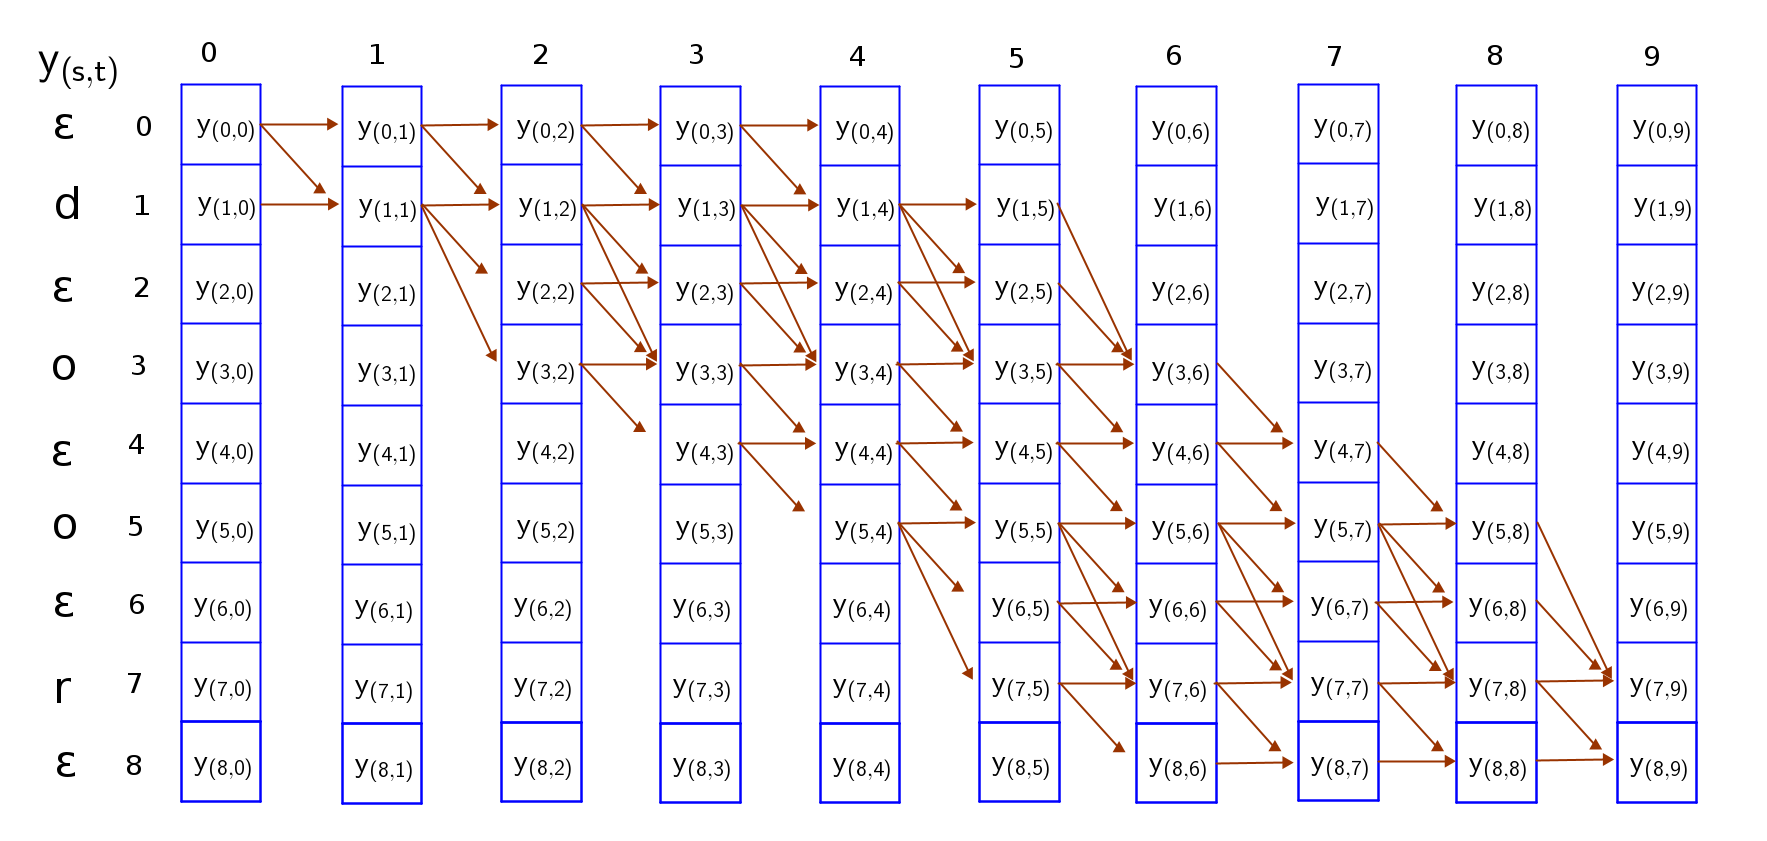
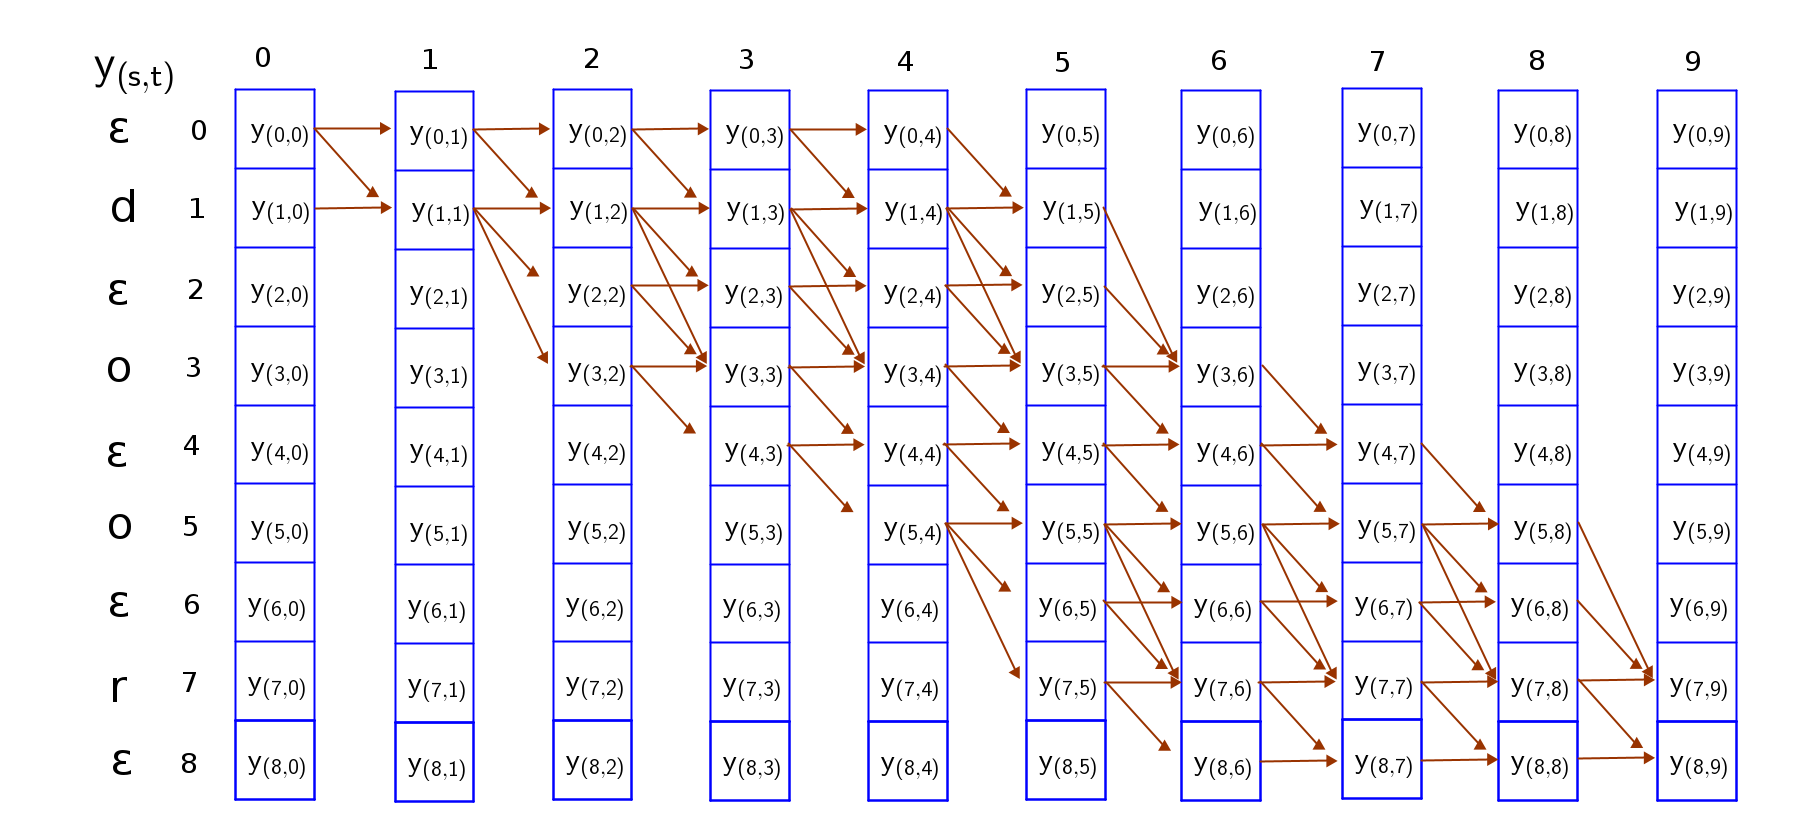
[WIP] Update article diagrams and errors

Changed region(s): [[0.0, 0.0622, 0.9649, 0.9641]]

diff --git a/_posts/2020-07-17-breaking-down-ctc-loss.md b/_posts/2020-07-17-breaking-down-ctc-loss.md
@@ -9,11 +9,12 @@ comments: true
 
 ---
 
-The Connectionist Temporal Classification is a type of scoring function for the output of neural networks where the input sequence may not align with the output sequence at every timestep. It was first introduced in the paper by [Alex Graves et al](https://www.cs.toronto.edu/~graves/icml_2006.pdf) for labelling unsegmented phoneme sequence. It has been successfully applied in other classification tasks such as speech recognition, keyword spotting, handwriting recognition, video description. It has become an ubiquitous loss for tasks requiring dynamic alignment of input to output. In this article, we will breakdown the inner workings of the CTC loss computation using the forward-backward algorithm.
+The Connectionist Temporal Classification is a type of scoring function for the output of neural networks where the input sequence may not align with the output sequence at every timestep. It was first introduced in the paper by [Alex Graves et al](https://www.cs.toronto.edu/~graves/icml_2006.pdf) for labelling unsegmented phoneme sequence. It has been successfully applied in other classification tasks such as speech recognition, keyword spotting, handwriting recognition, video description. These tasks require alignment between the input and output which may not be given. Therefore, it has become an ubiquitous loss for tasks requiring dynamic alignment of input to output. In this article, we will breakdown the inner workings of the CTC loss computation using the forward-backward algorithm.
 
-For an introductory look at CTC, you can read [Sequence Modeling With CTC](https://distill.pub/2017/ctc/) by Awni Hannun.
+We will not be discussing the decoding methods used during inference such as beam search with ctc or prefix search. For an introductory look at CTC, you can read [Sequence Modeling With CTC](https://distill.pub/2017/ctc/) by Awni Hannun.
 
 Here's what we will cover:
+
 1. TOC
 {:toc}
 
@@ -33,54 +34,56 @@ Let's get concrete with what we have been talking about by designing a task and 
 
 ![speech model using ctc ctc](/images/ctc_loss/speech_model.png)
 
-In the model above, we convert the raw audio signal into its spectrum or apply melfiterbanks, which is then passed through a convolution neural network (CNN). CNNs enable us extract features, by looking at a window of the data while performing strided convolutions along the feature dimension of the audio.
+In the model above, we convert the raw audio signal into its spectrum or apply melfiterbanks (this is optional and can be performed by a CNN layer), which is then passed through a convolution neural network (CNN). CNNs enable us extract features, by looking at a window of the data while performing strided convolutions along the feature dimension of the audio.
 
-The features are then passed through a Recurrent Neural Network (RNN) for decoding. At the decoding stage, observe that some outputs are similar to their previous timesteps indicating that predictions overlap. Also, how should we have dealt with silence in the audio?
+The features are then passed through a Recurrent Neural Network (RNN) for decoding. At the decoding stage, if we perform a max decoding at each timestep, we will get tokens of a much longer length than the input, which naturally implies that redundant tokens will be decoded to fill up some of the timesteps. How do we contract the decoded output to represent our predictions? How should we deal with silences in the audio? How should we indicate repetitions of tokens as in "d-oo-r"?
 
-Instead of decoding characters, we can decode phonemes, subwords, or even words depending on the task. Let's consider the instance of character decoding for this article.
+Well, Instead of decoding characters, we can decode phonemes, subwords, or even words depending on the task. Let's consider the instance of character decoding for this article.
 
-There are problems which arise when decoding characters. Some characters repeat in words (e.g. 'o' in 'door') and how does the model determine the correct sequence of character to be 'door' and not 'dor'. We can solve this problem by explicitly introducing a blank token into our vocabulary to cater for this. Don not forget we also have a separator token to cater for spaces between words.
+We can solve these problems by explicitly introducing a blank token into our vocabulary to cater for these dynamics. We further include a separator token to indicate spaces between each word.
 
-For instance, "the door" split into ["t", "h", "e", "d", "o", "o", "r"] tokens will be transformed into ["ε", "t", "ε", "h", "ε", "e", "_", "d", "ε", "o", "ε", "o", "ε", "r"] to cater for blanks and separator. With this, we know that we can only have two similar consecutive tokens only if they are separated by a blank token, "ε".
+Thus, "a door" split into ["t", "h", "e", "_", "d", "o", "o", "r"] tokens is then transformed into ["ε", "t", "ε", "h", "ε", "e", "ε", "\_", "ε", "d", "ε", "o", "ε", "o", "ε", "r", "ε"] where the blank token is included. With this, we know that we can only have repeating tokens only if they are separated by a blank token, "ε" e.g. "d", "o", "ε", "o", "ε", "r" is allowed and not "d", "o", "o", "ε", "r". The latter contracts into "dor".
 
-Given an initial sequence of length $M$, we expand the length of new sequence becomes $2*M + 1$
+In general, given an initial sequence of length $M$, the length of the expanded sequence is $2*M + 1$
 
-## Getting into details
+## Getting into ctc details
 
-At the output of the RNN, we get a vector, which has the length of vocabulary, for each time step of RNN computation. The softmax function is applied to it to get a vector of probabilities. The number of output sequences cannot be more than the number of features from the CNN, so the features has to be estimated accordingly (by taking the maximum length of sequence in vocabulary or some other heuristic).
+At the output of the RNN, we get a vector, which has the length of vocabulary, for each time step of RNN computation. The softmax function is applied to it to get a vector of probabilities. The number of output labels cannot be more than the number of features from the CNN, so the features has to be estimated accordingly (by taking the maximum length of sequence in vocabulary or some other heuristic).
 
-Let's generate our vocabulary as the standard lowercase alphabets, including our special tokens.
+We will consider a smaller label "door" but should be enough to explain the entire concept succinctly. Let's generate our vocabulary as the standard lowercase alphabets, including our special tokens.
 
-$\{"ε":0, "\_":1', "a": 2, "b":3, ... ,"z":28\}$
+$["ε":0, "_":1', "a": 2, "b":3,~ ... ~,"z":28]$
 
 ![softmax layer from ctc](/images/ctc_loss/softmax_layer_from_ctc.png)
 
-Let $T$ denote the length of the input, $S$ denote the length of the target output i.e $S = 2*M + 1$.
+We denote the total number of timesteps by $T$ and length of the expanded target output by $S$ where $S = 2*M + 1$. So, for "door", $S = 2\*4+1$
 
 Given these vectors of probability distributions, how do we learn the alignments of the probable predictions? We need a structured way to traverse from the first softmax distribution to the last to represent the word.
 
 ### Setting up constrains on the alignment
 
-We eliminate all rows that do not include tokens from the target sequence and then rearrange the tokens to form the output sequence. We copy the required output for the target into a secondary reduced structure. So we only decode on the reduced structure assuring us that only appropriate tokens will be used for decoding.
+In principle, we exclude all rows that do not include tokens from the target sequence and then rearrange the tokens to form the output sequence. This is done during training only. At inference, a beam search can be performed on the distribution. So, we copy the required output for the target into a secondary reduced structure and decode on the reduced structure assuring us that only appropriate tokens will be used for selected for computing loss and gradients.
 
-Also, if a token occur multiple times, we repeat the row in the appropriate location. This becomes our probability matrix, $y_{(s, t)}$
+If a token occur multiple times in the label, we repeat the rows for similar tokens in their appropriate location. This becomes our probability matrix, $y_{(s, t)}$
 
 ![reduced softmax layer ctc](/images/ctc_loss/reduced_softmax_layer_extract_ctc.png)
 
 ### Composing the graph
 
-Now that we have our full grid, we can begin traversing the grid from top-left to bottom right in such a way that; a) the first character in the decoding must be a blank token, 'ε' or the token 'd' b) the last token is either a blank token or 'r' c) the rest of the sequence follows a sequence that monotonically travels down from the top-left to bottom-right.
+Now that we have our full grid, we can begin traversing the grid from top-left to bottom right in such a way that; (a) the first character in the decoding must be a blank token, 'ε' or the first sequence token 'd' (b) the last token is either a blank token or the last sequence token 'r' (c) the rest of the sequence follows a sequence path that monotonically travels down from the top-left to bottom-right.
 
 ![probability matrix ctc](/images/ctc_loss/probability_matrix_ctc.png)
 
-To guarantee that the sequence is an expansion of the target sequence, we can only traverse the grid only through these paths. I have attempted to trave all paths in the grid, and you can do it as an exercise too. Two valid paths where both collapse into "door" are shown below;
+To guarantee that the sequence is an expansion of the target sequence, we can only traverse the grid through these valid paths from top-left to bottom-right. I have attempted to trave all paths in the grid, and you can do it as an exercise too. Two valid paths where both collapse into "door" are shown below;
 
-![](/images/ctc_loss/valid_paths_prob1.png)
+![ctc valid path 1](/images/ctc_loss/valid_paths_prob1.png)
 
-![](/images/ctc_loss/valid_paths_prob2.png)
+![ctc valid path 2](/images/ctc_loss/valid_paths_prob2.png)
+
+It is easy to trace this paths if we consider that the following traversal rules;
 
 - The sequence can start with a blank token or the first character token and end with a blank token or the last character token. So we have to consider both paths.
-- Skips are permitted across a blank token only if the tokens on either side of the blank token are different (because a blank is required to distinguish repetition of a token but not required between distinct tokens)
+- Skips are permitted across a blank token **only if the tokens on either side of the blank token are different** because a blank is required to distinguish repetition of a token but not required between distinct tokens
 
 ### Scoring the paths
 
@@ -90,28 +93,23 @@ $score(pathA) = y_{(0,0)}\*y_{(0,1)}\*y_{(0,2)}\*y_{(1,3)}\*y_{(1,4)}\*y_{(2,5)}
 
 $score(pathB) = y_{(1,0)}\*y_{(1,1)}\*y_{(2,2)}\*y_{(3,3)}\*y_{(3,4)}\*y_{(4,5)}\*y_{(5,6)}\*y_{(7,7)}\*y_{(7,8)}\*y_{(8,9)}$
 
-There are an exponential number of such valid paths as can be seen from the graph. The complexity is of the order $\mathcal{O}(\|V\|^T\*M)$ where $\|V\|$ is the length of vocabulary, $T$ is the length of the input and $M$, the number of labels.
+We are required to trace out all the possible paths that contract into "door" and there are an exponential number of such valid paths as can be seen from the graph. The complexity is of the order $\mathcal{O}(\|V\|^T)$ where $\|V\|$ is the length of vocabulary.
 
-Can we find a dynamic programming algorithm for solving this problem? Well, the [viterbi algorithm](https://en.wikipedia.org/wiki/Viterbi_algorithm) is made for this type of problem.
-The viterbi algorithm finds the best path to a node by extending the best path to one of its parent nodes. Any other path would necessarily have a lower probability.
-
-Spoiler: But, as good as this sounds, the viterbi algorithm has its drawbacks. It commits to a path or initial alignment early (without exploration) which can lead to suboptimal results.
-
-So, we need to find a way to disallow commit to any valid alignment during training.
+Can we find a dynamic programming algorithm for solving this problem? Well, the [viterbi algorithm](https://en.wikipedia.org/wiki/Viterbi_algorithm) can generate the most likely path, and does not guarantee we get the most likely sequence of labels. It finds the best path to a node by extending the best path to one of its parent nodes. Any other path would necessarily have a lower probability. But, the viterbi algorithm commits to a path or initial alignment early (without exploration) which can lead to suboptimal results.
 
 ## Forward-Backward Algorithm
 
-Instead of only selecting the most likely alignment, we find the expectation over all possible alignments. This allows us to also exploit the existence of subpaths in the graph.
+Instead of only selecting the most likely alignment, we find the expectation over all possible alignments during training. This allows us to also exploit the existence of subpaths in the graph.
 
-To compute this effectively, we need a forward probability $\alpha_{s, t}$ and backward probability $beta_{s, t}$ where t is the time-step and s is the index of the token considered.
+To compute this effectively, we need a forward variable $\alpha_{s, t}$ and backward variable $beta_{s, t}$ where s is the index of the token considered. The forward variable computes the total probability of a sequence seq[1:s] up to a particular timestep t. The backward variable calculates the total probability of remaining sequence from token seq(s) to token seq(S), seq[s:S] at timestep t.
 
 ### Forward Algorithm for computing $\alpha_{s, t}$
 
-First, let's create a matrix of zeros of same shape as our probability matrix, $y_{(s, t)}$ to store our $\alpha$ values.
+First, let's create a matrix of zeros of same shape as our probability matrix, $y_{(s, t)}$ to store our $\alpha$ values. The forward algorithm is given by;
 
 Initialize:
 
-$\alpha$-mat = numpy.zeros_like(y-mat)
+$\alpha$-mat = zeros_like(y-mat)
 
 $\alpha_{(0, 0)} = y_{(0, 0)}$, $\alpha_{(1, 0)} = y_{(1, 0)}$
 
@@ -121,7 +119,7 @@ Iterate forward:
 
 - for t = 1 to T-1:
   - for s = 0 to S:
-    - $\alpha_{(s, t)} = (\alpha_{(s, t-1)} + \alpha_{(s-1, t-1)})y_{(s, t)}$ 
+    - $\alpha_{(s, t)} = (\alpha_{(s, t-1)} + \alpha_{(s-1, t-1)})y_{(s, t)}$
 if $seq(s) = "ε"$ or seq(s) = seq(s-2)
     - $\alpha_{(s, t)} = (\alpha_{(s, t-1)} + \alpha_{(s-1, t-1)} + \alpha_{(s-2, t-2)})y_{(s, t)}$ otherwise
 
